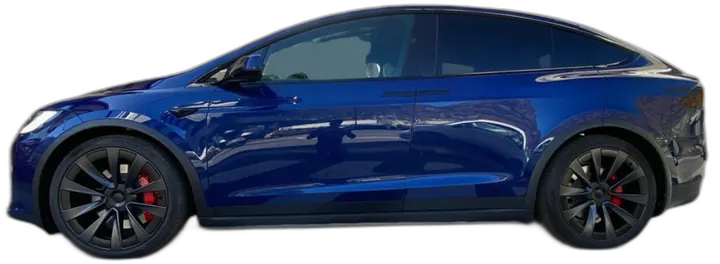
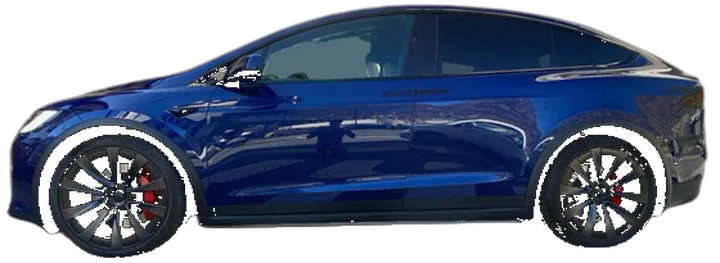
Restyle Tesla tiles to companion-card car hero layout
Put the floating side-profile car on a black stage at the top of each
tile (matching the Tesla companion card), with charge status and SOC
underneath. Re-cut vehicle WebPs to true transparency.

diff --git a/home-assistant/flux-ui-dashboard/scripts/flux_tablet_tesla.py b/home-assistant/flux-ui-dashboard/scripts/flux_tablet_tesla.py
@@ -1,4 +1,8 @@
-"""Tesla tiles for the 16:9 tablet overview (full-width row under cameras)."""
+"""Tesla tiles for the 16:9 tablet overview (full-width row under cameras).
+
+Visual language matches Tesla companion cards: black stage, floating side-profile
+car photo on top, status + SOC underneath — no glass chrome.
+"""
 
 from __future__ import annotations
 
@@ -32,24 +36,22 @@ def _image_data_uri(filename: str) -> str:
     """Inline image so Tesla art renders even when /local SMB paths fail."""
     path = _TESLA_DIR / filename
     if not path.exists():
-        # Fall back to png / svg siblings.
-        stem = path.stem
-        for ext, mime in ((".webp", "image/webp"), (".png", "image/png"), (".svg", "image/svg+xml")):
-            alt = _TESLA_DIR / f"{stem}{ext}" if ext != path.suffix else path
+        stem = Path(filename).stem
+        for ext in (".webp", ".png", ".svg"):
+            alt = _TESLA_DIR / f"{stem}{ext}"
             if alt.exists():
                 path = alt
                 break
         else:
             return f"/local/flux-ui/tesla/{filename}"
     raw = path.read_bytes()
-    suffix = path.suffix.lower()
     mime = {
         ".webp": "image/webp",
         ".png": "image/png",
         ".svg": "image/svg+xml",
         ".jpg": "image/jpeg",
         ".jpeg": "image/jpeg",
-    }.get(suffix, "image/png")
+    }.get(path.suffix.lower(), "image/png")
     return f"data:{mime};base64,{base64.b64encode(raw).decode('ascii')}"
 
 
@@ -67,7 +69,7 @@ def _vehicle_triggers(vehicle: dict) -> list[str]:
 
 
 def _tesla_vehicle_card(vehicle: dict) -> dict:
-    """Tesla-app style tile — big car photo, SOC, charging line; no glass chrome."""
+    """Tesla-app / companion-card style — car hero on black, status below."""
     name = vehicle.get("name") or "Tesla"
     battery = vehicle["battery"]
     charging = vehicle["charging"]
@@ -79,115 +81,102 @@ def _tesla_vehicle_card(vehicle: dict) -> dict:
         "type": "custom:button-card",
         "entity": battery,
         "show_icon": False,
-        "show_name": True,
-        "show_label": True,
+        "show_name": False,
+        "show_label": False,
         "show_state": False,
-        "show_entity_picture": True,
-        "entity_picture": image_uri,
-        "name": (
-            "[[[\n"
-            f"  const soc = states['{battery}']?.state;\n"
-            f"  const charging = (() => {{ {_charging_js(charging)} }})();\n"
-            "  const color = charging ? '#66BB6A' : 'var(--primary-text-color)';\n"
-            f"  const pct = (soc == null || ['unavailable','unknown'].includes(String(soc))) "
-            f"? '—' : soc;\n"
-            "  return `<span style=\"color:${color}\">${pct}"
-            "<span style=\"font-size:0.45em;opacity:0.85;margin-left:2px;\">%</span></span>`;\n"
-            "]]]"
-        ),
-        "label": (
-            "[[[\n"
-            f"  const charging = (() => {{ {_charging_js(charging)} }})();\n"
-            f"  const st = String(states['{charging}']?.state || '').toLowerCase();\n"
-            f"  const pwr = states['{power}']?.state;\n"
-            f"  const title = '{name}';\n"
-            "  let status = charging ? 'Charging' : 'Not charging';\n"
-            "  if (!charging && st && !['unavailable','unknown','off','disconnected',"
-            "'idle','complete','stopped',''].includes(st)) status = st;\n"
-            "  const kw = charging && pwr != null && Number(pwr) > 0 ? ` · ${pwr} kW` : '';\n"
-            "  return `${title} · ${status}${kw}`;\n"
-            "]]]"
-        ),
+        "show_entity_picture": False,
         "triggers_update": _vehicle_triggers(vehicle),
         "tap_action": {"action": "more-info", "entity": battery},
         "styles": {
             "grid": [
-                {"grid-template-areas": "'n i' 'l i' 'bar i'"},
-                {"grid-template-columns": "minmax(88px, 0.55fr) 1.45fr"},
-                {"grid-template-rows": "min-content min-content min-content"},
-                {"align-items": "center"},
+                {"grid-template-areas": "'hdr' 'car' 'soc' 'bar'"},
+                {"grid-template-columns": "1fr"},
+                {"grid-template-rows": "min-content min-content min-content min-content"},
             ],
             "card": [
-                {"background": "transparent"},
+                # Black stage so the cutout car floats like the Tesla companion card.
+                {"background": "#000000"},
                 {"box-shadow": "none"},
-                {"border": "none"},
-                {"border-radius": "0"},
+                {"border": "1px solid rgba(255,255,255,0.08)"},
+                {"border-radius": "18px"},
                 {"backdrop-filter": "none"},
                 {"-webkit-backdrop-filter": "none"},
-                {"padding": "8px 4px 8px 8px"},
-                {"min-height": "120px"},
+                {"padding": "10px 14px 14px 14px"},
+                {"min-height": "168px"},
                 {"height": "auto"},
-                {"overflow": "visible"},
-            ],
-            "name": [
-                {"justify-self": "start"},
-                {"align-self": "end"},
-                {"font-size": "42px"},
-                {"font-weight": "700"},
-                {"letter-spacing": "-0.02em"},
-                {"line-height": "1"},
-                {"padding": "0"},
-                {"margin": "0"},
-            ],
-            "label": [
-                {"justify-self": "start"},
-                {"align-self": "start"},
-                {"font-size": "13px"},
-                {"font-weight": "600"},
-                {"opacity": "0.78"},
-                {"padding-top": "4px"},
-            ],
-            "img_cell": [
-                {"justify-self": "end"},
-                {"align-self": "center"},
-                {"width": "100%"},
-                {"max-width": "100%"},
-                {"overflow": "visible"},
-                {"background": "transparent"},
-                {"border-radius": "0"},
-                {"padding": "0"},
-                {"margin": "0"},
-            ],
-            "entity_picture": [
-                {"width": "100%"},
-                {"max-height": "110px"},
-                {"object-fit": "contain"},
-                {"object-position": "right center"},
-                {"background": "transparent"},
-                {"border-radius": "0"},
+                {"overflow": "hidden"},
             ],
             "custom_fields": {
-                "bar": [
-                    {"grid-area": "bar"},
-                    {"justify-self": "stretch"},
+                "hdr": [{"grid-area": "hdr"}, {"width": "100%"}],
+                "car": [
+                    {"grid-area": "car"},
                     {"width": "100%"},
-                    {"padding-top": "8px"},
-                ]
+                    {"justify-self": "center"},
+                    {"padding": "4px 0 2px 0"},
+                ],
+                "soc": [{"grid-area": "soc"}, {"width": "100%"}, {"padding-top": "2px"}],
+                "bar": [{"grid-area": "bar"}, {"width": "100%"}, {"padding-top": "8px"}],
             },
         },
         "custom_fields": {
+            # Top meta row — mirrors companion-card "15 hours … PARKED" strip.
+            "hdr": (
+                "[[[\n"
+                f"  const charging = (() => {{ {_charging_js(charging)} }})();\n"
+                f"  const pwr = states['{power}']?.state;\n"
+                f"  const title = '{name}';\n"
+                "  const left = charging\n"
+                "    ? (pwr != null && Number(pwr) > 0 ? `${pwr} kW` : 'Charging')\n"
+                "    : title;\n"
+                "  const right = charging ? 'CHARGING' : 'NOT CHARGING';\n"
+                "  const rightColor = charging ? '#66BB6A' : 'rgba(255,255,255,0.72)';\n"
+                "  return `<div style=\"display:flex;justify-content:space-between;align-items:center;"
+                "gap:10px;font-size:11px;letter-spacing:0.04em;text-transform:uppercase;"
+                "font-weight:600;color:rgba(255,255,255,0.78);\">"
+                "<span>• ${left}</span>"
+                "<span style=\"color:${rightColor};\">${right}</span></div>`;\n"
+                "]]]"
+            ),
+            # Hero car — full-width floating side profile (same treatment as companion card).
+            "car": (
+                "[[[\n"
+                f"  return `<div style=\"width:100%;display:flex;justify-content:center;"
+                f"align-items:center;min-height:96px;\">"
+                f"<img src=\"{image_uri}\" alt=\"{name}\" "
+                f"style=\"width:100%;max-height:118px;object-fit:contain;"
+                f"object-position:center center;background:transparent;"
+                f"filter:drop-shadow(0 14px 18px rgba(0,0,0,0.55));\" /></div>`;\n"
+                "]]]"
+            ),
+            "soc": (
+                "[[[\n"
+                f"  const soc = states['{battery}']?.state;\n"
+                f"  const charging = (() => {{ {_charging_js(charging)} }})();\n"
+                "  const color = charging ? '#66BB6A' : '#ffffff';\n"
+                "  const pct = (soc == null || ['unavailable','unknown'].includes(String(soc))) "
+                "? '—' : soc;\n"
+                f"  const title = '{name}';\n"
+                "  return `<div style=\"display:flex;justify-content:space-between;"
+                "align-items:baseline;gap:12px;\">"
+                "<div style=\"font-size:34px;font-weight:700;line-height:1;color:${color};"
+                "letter-spacing:-0.02em;\">${pct}"
+                "<span style=\"font-size:15px;opacity:0.8;margin-left:2px;\">%</span></div>"
+                "<div style=\"font-size:12px;font-weight:600;color:rgba(255,255,255,0.7);"
+                "text-align:right;\">${title}</div></div>`;\n"
+                "]]]"
+            ),
             "bar": (
                 "[[[\n"
                 f"  const raw = Number(states['{battery}']?.state);\n"
                 "  const pct = Number.isFinite(raw) ? Math.max(0, Math.min(100, raw)) : 0;\n"
                 f"  const charging = (() => {{ {_charging_js(charging)} }})();\n"
                 f"  const fill = charging ? '#66BB6A' : '{accent}';\n"
-                "  return `<div style=\"width:100%;height:5px;border-radius:999px;"
+                "  return `<div style=\"width:100%;height:4px;border-radius:999px;"
                 "background:rgba(255,255,255,0.14);\">"
                 "<div style=\"width:${pct}%;height:100%;border-radius:999px;background:${fill};"
                 "transition:width 0.35s ease;\"></div></div>`;\n"
                 "]]]"
-            )
+            ),
         },
     }
 
